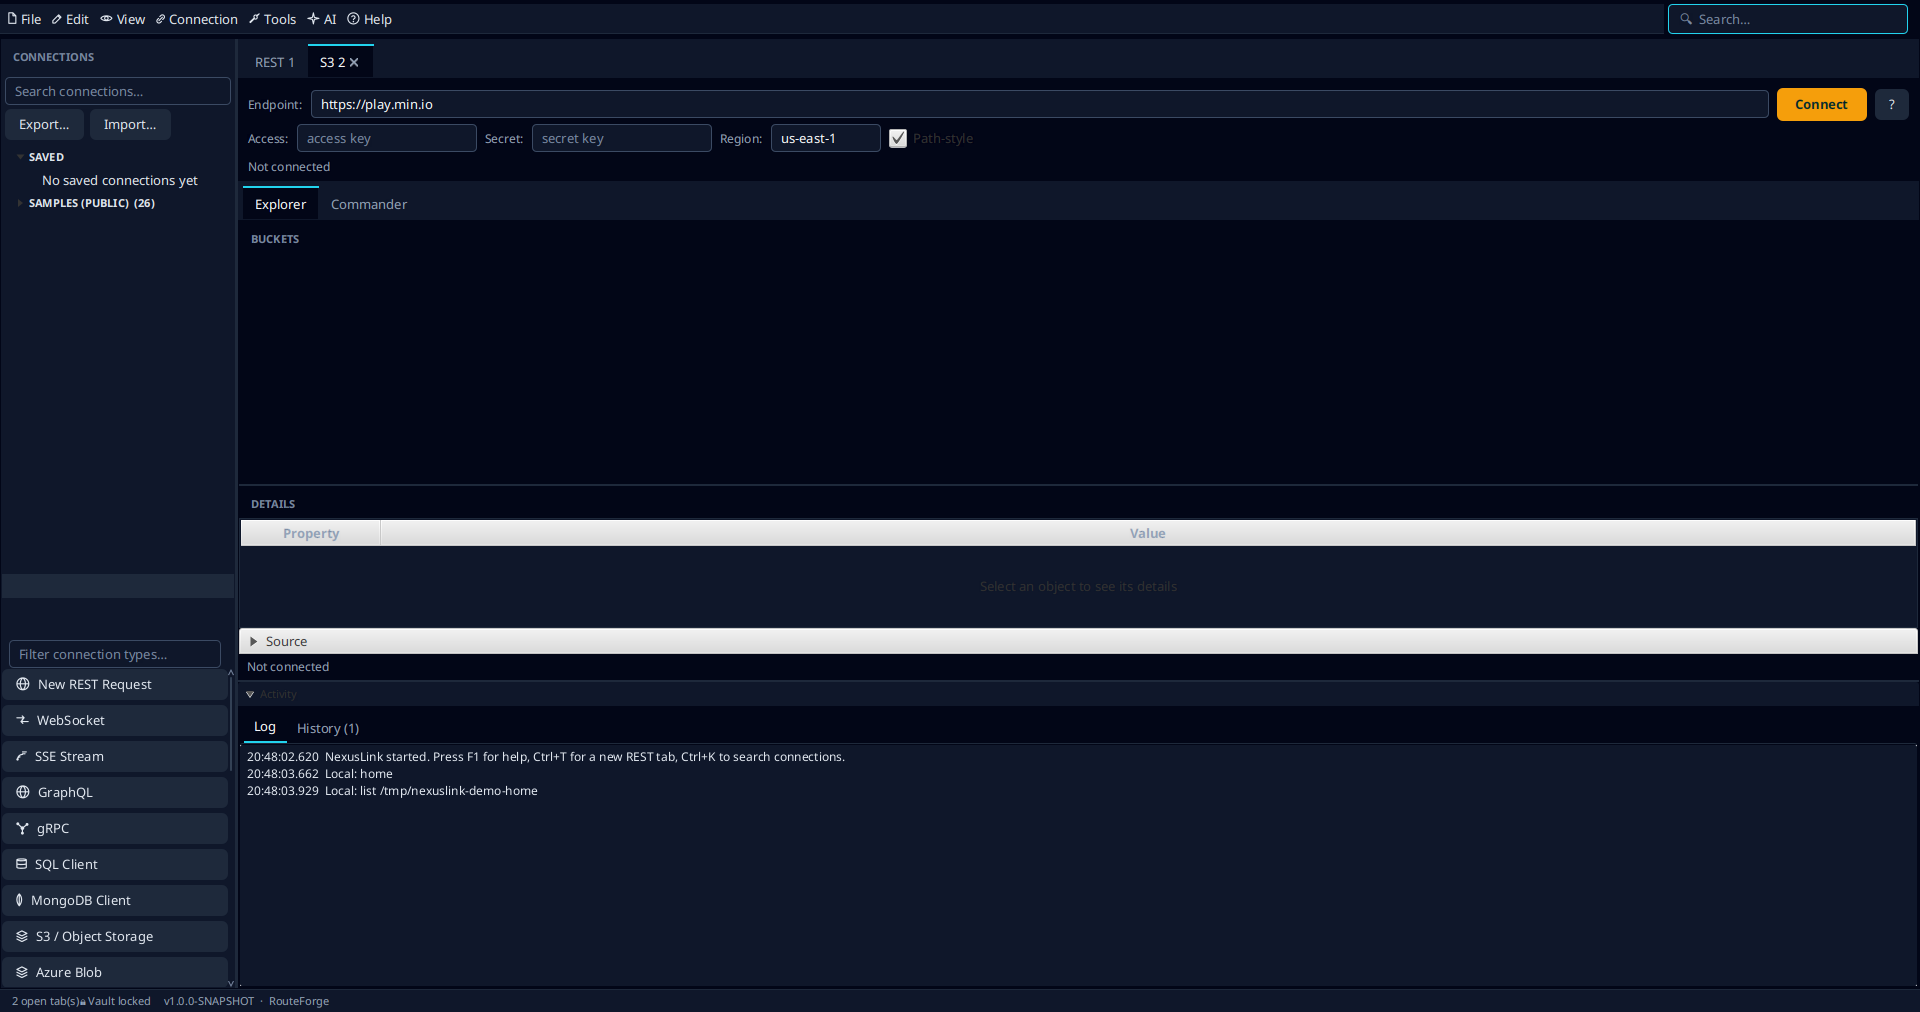
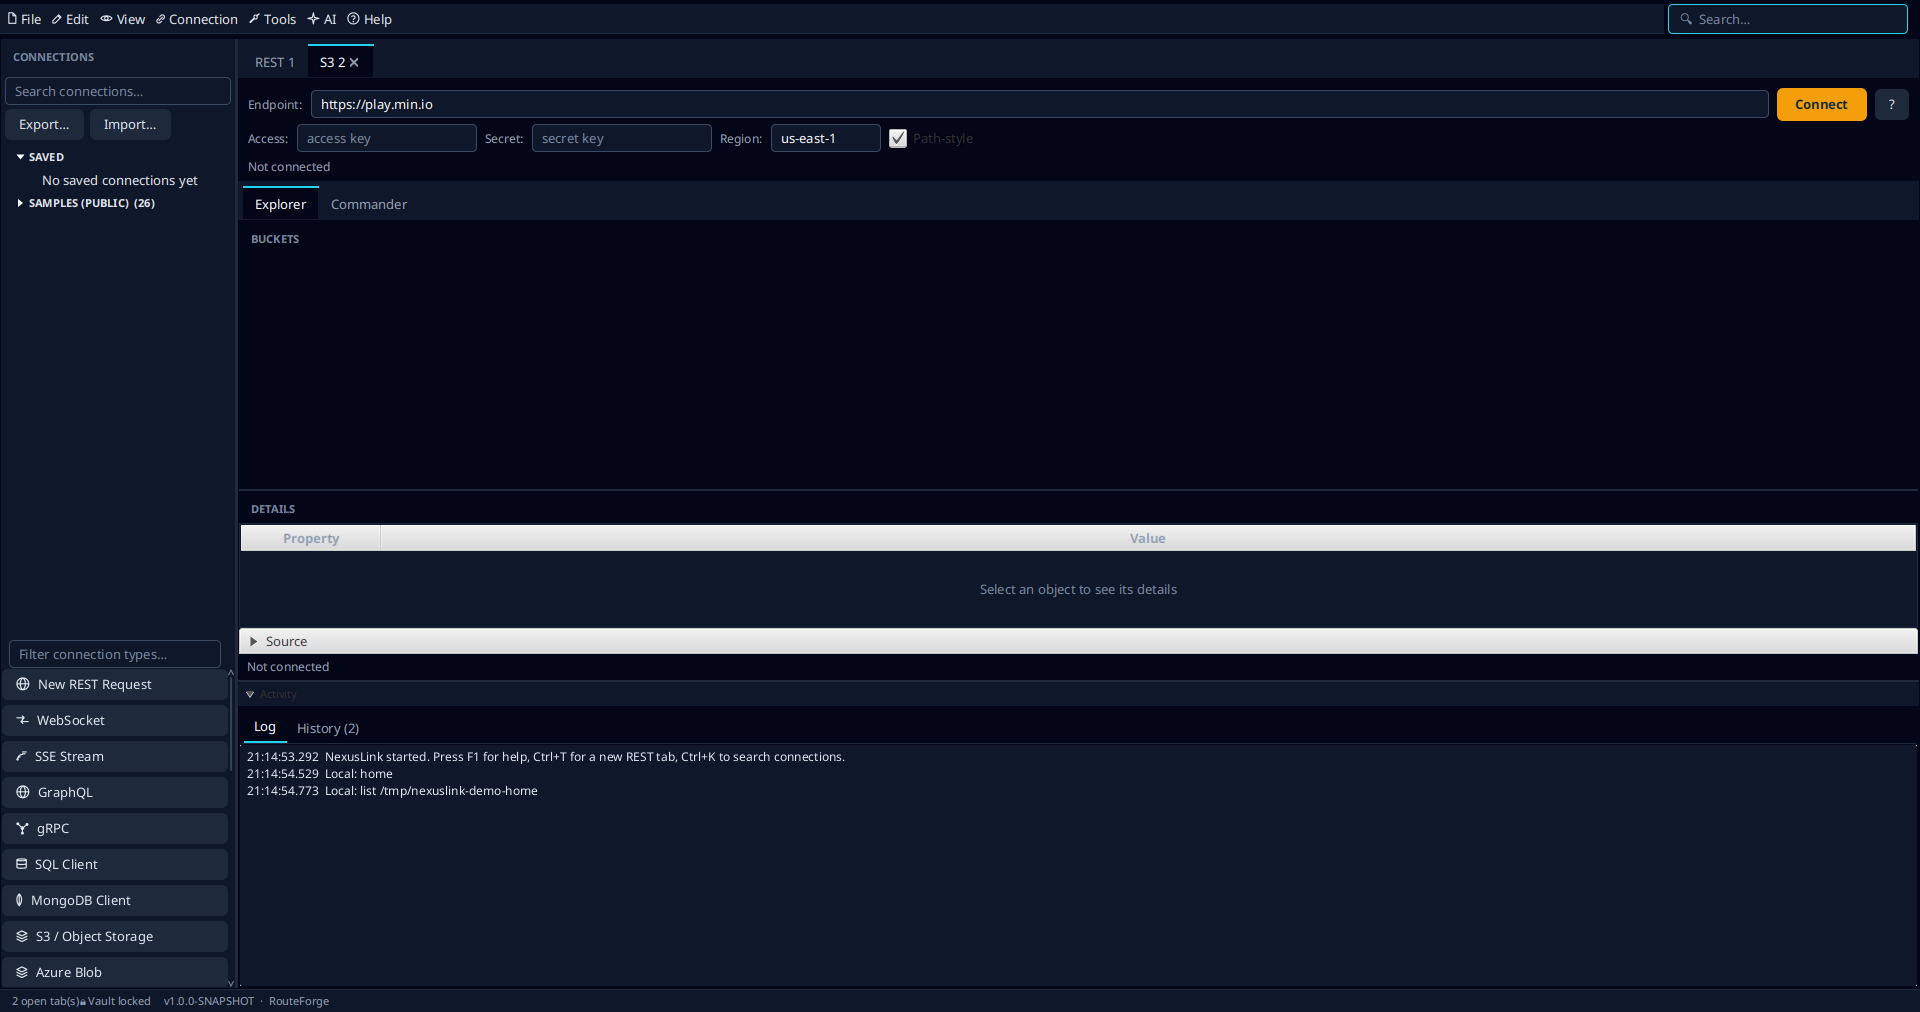
Fix empty lists rendering white in the dark theme, and finish the screenshot set
Shooting the video assets showed the bug plainly: an empty ListView or TableView — the
LDAP result list, the certificate store, the environments table, MQTT messages, Azure
containers — rendered as a white hole in the dark theme. JavaFX paints the inside of
list, table, tree and text controls with -fx-control-inner-background, whose default is
white, and the theme never bound it to the palette. It does now, on .root, so every
control's interior follows the theme. Plain ListViews also had no styling at all — only
the combo popup and the history panel did — so they now match the tables, and the "empty"
placeholder text gets a muted fill instead of black on white.

The screenshot set is re-shot on the fixed build and extended to twenty-one screens,
including a hero shot with eight protocol tabs open in one window, plus MQTT,
certificates, environments, secret vaults, metrics, Azure Blob, SNMP, SSH and RabbitMQ.
Every capture is the application's own scene and nothing else. Inventories in the script
and the README updated to match.

Changed region(s): [[0.125, 0.4595, 1.0, 0.5514], [0.125, 0.7352, 0.1562, 0.7964], [0.5312, 0.582, 0.5625, 0.6126]]

diff --git a/nexuslink-ui/src/main/resources/com/nexuslink/ui/css/theme-base.css b/nexuslink-ui/src/main/resources/com/nexuslink/ui/css/theme-base.css
@@ -6,6 +6,13 @@
     -fx-background-color: -nl-bg;
     -fx-font-family: "Inter", "Segoe UI", system;
     -fx-font-size: 13px;
+
+    /* JavaFX paints the inside of list, table, tree and text controls with these two colours,
+     * and its defaults are white. Without them an *empty* ListView or TableView — a result list
+     * before a search, the certificate store, the environments table — renders as a white hole in
+     * the dark theme. Bind them to the palette so every control's interior follows the theme. */
+    -fx-control-inner-background:     -nl-surface;
+    -fx-control-inner-background-alt: derive(-nl-surface, 4%);
 }
 
 /* ---------- Per-view accent indirection ----------
@@ -321,6 +328,21 @@
 .table-view .table-row-cell:alert { -fx-background-color: derive(-nl-danger, 72%); }
 .table-view .table-row-cell:alert:odd { -fx-background-color: derive(-nl-danger, 66%); }
 .table-view .table-row-cell:alert .table-cell { -fx-text-fill: -nl-danger; }
+
+/* ---------- Lists ---------- */
+/* Only the combo popup and the history panel styled their lists; a plain ListView fell back to
+ * the JavaFX default. These rules give every other list the same surface as the tables. */
+.list-view {
+    -fx-background-color: -nl-surface;
+    -fx-border-color: -nl-border;
+}
+.list-view .list-cell { -fx-background-color: -nl-surface; -fx-text-fill: -nl-text; }
+.list-view .list-cell:odd { -fx-background-color: derive(-nl-surface, 4%); }
+.list-view .list-cell:filled:hover { -fx-background-color: -nl-surface-3; -fx-text-fill: -nl-text-strong; }
+.list-view .list-cell:filled:selected { -fx-background-color: -nl-view-accent-soft; -fx-text-fill: -nl-text-strong; }
+/* The "nothing here yet" text a list or table shows when it is empty. */
+.list-view .placeholder .label,
+.table-view .placeholder .label { -fx-text-fill: -nl-text-faint; }
 
 /* ---------- Scroll bars ---------- */
 .scroll-bar { -fx-background-color: transparent; }

diff --git a/video-assets/SCRIPT.md b/video-assets/SCRIPT.md
@@ -48,20 +48,24 @@ Every asset named below is in this folder. Nothing here needs to be drawn, bough
 
 ## Scene 4 — The product, in use (0:46 – 1:46)
 
-Sixty seconds of real screens. **Six to nine seconds each**, cross-dissolve between them, with a
+Sixty seconds of real screens. **Six to eight seconds each**, cross-dissolve between them, with a
 slow 3–4% zoom on each so nothing sits still. Drop `overlays/logo-bug.png` in the top-right for the
 whole sequence, and put a lower third on each screen (see *Lower thirds* below).
 
 | Time | Screenshot | Lower third |
 |---|---|---|
-| 0:46 | `screenshots/02-rest-client.png` | **REST & API testing** — collections, auth, assertions |
-| 0:54 | `screenshots/03-sql-workbench.png` | **SQL workbench** — query, edit, explain, export |
+| 0:46 | `screenshots/01-one-console.png` | *(no lower third — let the tab bar speak)* |
+| 0:50 | `screenshots/02-rest-client.png` | **REST & API testing** — collections, auth, assertions |
+| 0:57 | `screenshots/03-sql-workbench.png` | **SQL workbench** — query, edit, explain, export |
 | 1:02 | `screenshots/04-kafka.png` | **Kafka** — produce, consume, consumer lag, replay |
 | 1:10 | `screenshots/05-mongodb.png` | **MongoDB** — find, aggregate, change streams |
 | 1:18 | `screenshots/06-ibmmq.png` | **IBM MQ** — browse queues, put, replay the DLQ |
 | 1:26 | `screenshots/07-graphql.png` | **GraphQL** — introspection, variables, subscriptions |
 | 1:33 | `screenshots/08-s3.png` | **S3 & object storage** — browse, upload, presign |
 | 1:40 | `screenshots/10-sftp-commander.png` | **File transfer** — two-pane commander, queue, compare |
+
+Open the sequence on `01-one-console.png` for four seconds — eight protocol tabs in a single
+window is the whole argument in one frame — then go through the individual screens.
 
 > **Narration.** REST, with collections, enterprise authentication and assertions. A SQL workbench
 > that speaks the dialect your engine actually accepts. Kafka — produce, consume, watch consumer lag,

diff --git a/video-assets/README.md b/video-assets/README.md
@@ -33,9 +33,31 @@ scene. This page is the inventory and the assembly notes.
 
 ### Screenshots
 
-Real captures of the running application: `02-rest-client` (with a live 200 OK response),
-`03-sql-workbench`, `04-kafka`, `05-mongodb`, `06-ibmmq`, `07-graphql`, `08-s3`, `09-redis`,
-`10-sftp-commander`, `11-grpc`, `12-ldap`, `13-mqtt`, `14-certificates`.
+Twenty-one real captures of the running application, all 1920×1012, dark theme:
+
+| | |
+|---|---|
+| `01-one-console` | **The hero shot** — eight protocol tabs open in one window: REST, SQL, Kafka, Mongo, IBM MQ, GraphQL, S3, Redis |
+| `02-rest-client` | REST, with a live `200 OK` and a real JSON response |
+| `03-sql-workbench` | SQL client — schema tree, editor, result grid |
+| `04-kafka` | Produce, consume, consumer lag, groups, cluster, schema registry |
+| `05-mongodb` | Query bar, operations, projection view |
+| `06-ibmmq` | Queue manager, channel, browse and put |
+| `07-graphql` | Query editor, variables, introspection, subscriptions |
+| `08-s3` | Object storage explorer and commander |
+| `09-redis` | Console and pub/sub |
+| `10-sftp-commander` | Two-pane commander with the transfer queue |
+| `11-grpc` | Service and method pickers, request JSON |
+| `12-ldap` | Search bar, filter builder, DIT tree |
+| `13-mqtt` | Subscribe, publish, live message list |
+| `14-certificates` | Certificate manager — generate, import, build bundles |
+| `15-environments` | Environment variables per environment |
+| `16-secret-vaults` | HashiCorp Vault, AWS Secrets Manager, CyberArk |
+| `17-metrics` | Live metrics dashboard with the throughput chart |
+| `20-azure-blob` | Azure Blob explorer and commander |
+| `21-snmp` | MIB browser, GET and WALK |
+| `22-ssh-terminal` | Embedded SSH terminal |
+| `23-rabbitmq` | Exchanges, queues, bindings, publish and consume |
 
 They were taken against a throwaway profile, so they show a clean workbench — no saved connections,
 no history, nothing from anyone's machine.
